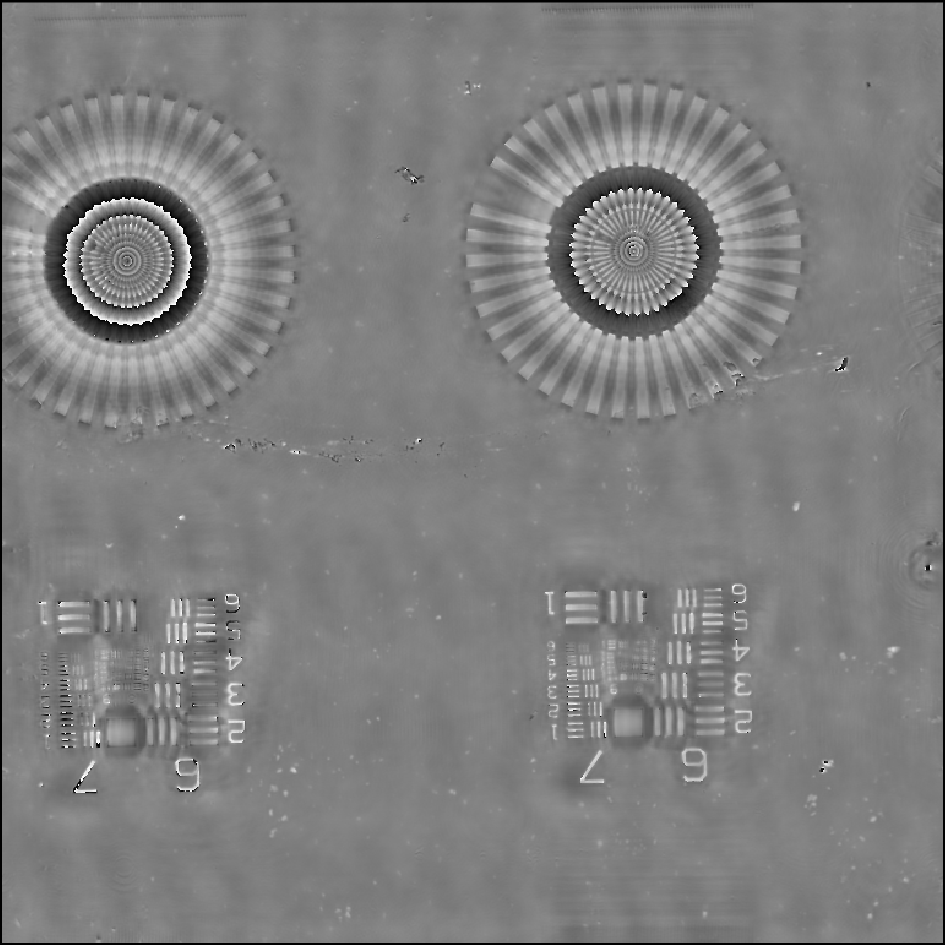
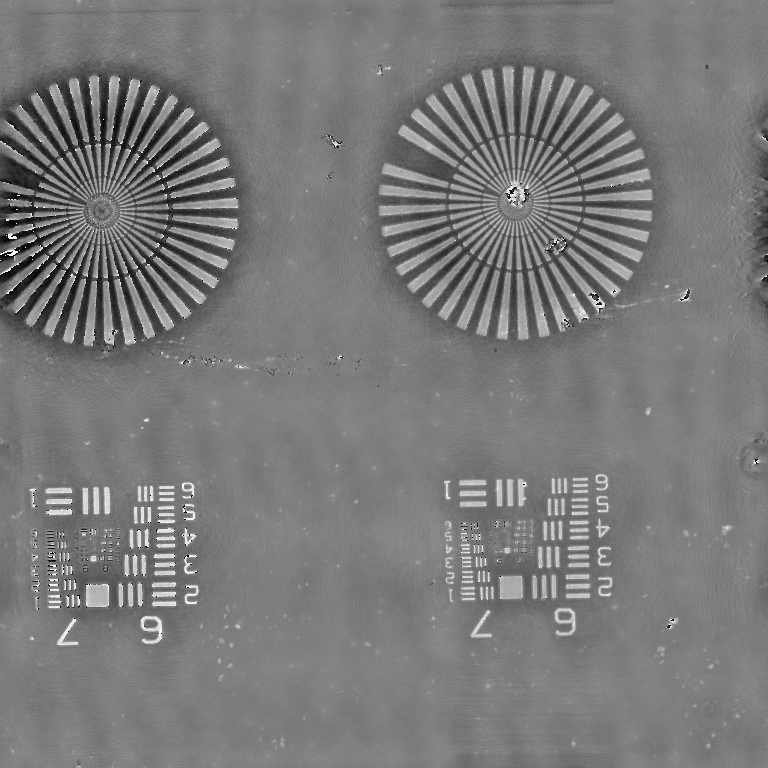
Update research figures and center captions

diff --git a/index.html b/index.html
@@ -7,7 +7,7 @@
   <meta name="theme-color" content="#ffffff">
   <title>Tong Wu</title>
   <link rel="icon" href="favicon.svg" type="image/svg+xml">
-  <link rel="stylesheet" href="styles.css">
+  <link rel="stylesheet" href="styles.css?v=balanced-figures-20261111">
   <script src="script.js" defer></script>
 </head>
 <body>
@@ -46,8 +46,10 @@
       </div>
       <article class="research-item" id="gaussian-paper" data-reveal>
         <figure class="research-image">
-          <img src="assets/gaussians.png" alt="Source image, clean Gaussian fit, and keyed rendering shown side by side." width="1640" height="662" loading="lazy" decoding="async">
-          <figcaption>Source · Gaussian fit · Keyed rendering<br><span>Source photograph: Christian Widell, CC0</span></figcaption>
+          <a class="figure-link image-frame" href="assets/gaussian-system-card.jpg" target="_blank" rel="noopener noreferrer" aria-label="View the full-size two-row system overview">
+            <img src="assets/gaussian-system-card.jpg" alt="Two-row system overview: inputs, clean fitting, carrier analysis, keyed assignment, embedding, and decoding." width="3000" height="2000" loading="lazy" decoding="async">
+          </a>
+          <figcaption>System overview · <a href="assets/gaussian-system-card.jpg" target="_blank" rel="noopener noreferrer">View full size ↗</a></figcaption>
         </figure>
         <div class="research-copy">
           <p class="venue"><span class="accepted">Accepted</span> ACM SIGGRAPH Asia 2026 · Technical Communications</p>
@@ -70,8 +72,12 @@
       </article>
       <article class="research-item" id="holography-project" data-reveal>
         <figure class="research-image">
-          <img src="assets/holography.png" alt="Grayscale phase reconstruction of Siemens star and USAF resolution test targets." width="945" height="945" loading="lazy" decoding="async">
-          <figcaption>Phase reconstruction of test targets</figcaption>
+          <a class="figure-link image-frame phase-frame" href="assets/holography.png?v=balanced-figures-20261111" target="_blank" rel="noopener noreferrer" aria-label="View the full phase reconstruction">
+            <svg viewBox="337 25 360 360" xmlns="http://www.w3.org/2000/svg" role="img" aria-label="Detail of a Siemens star test target in a baseline phase reconstruction" preserveAspectRatio="xMidYMid meet">
+              <image href="assets/holography.png?v=balanced-figures-20261111" width="768" height="768" />
+            </svg>
+          </a>
+          <figcaption>Phase reconstruction of a test target</figcaption>
         </figure>
         <div class="research-copy">
           <p class="venue">Ongoing research · QCI Lab, Warsaw University of Technology</p>

diff --git a/styles.css b/styles.css
@@ -45,9 +45,13 @@ h2 { font-size: 24px; font-weight: 620; line-height: 1.3; letter-spacing: -.03em
 .section-heading > span { color: var(--muted); font-size: 12px; }
 .research-item { display: grid; grid-template-columns: 260px minmax(0,1fr); align-items: start; column-gap: 34px; padding-block: 30px; }
 .research-item + .research-item { border-top: 1px solid var(--line); }
-.research-image { padding-top: 5px; }
+.research-image { padding-top: 5px; width: 100%; display: flex; flex-direction: column; align-items: center; justify-self: center; }
+.figure-link { display: block; cursor: zoom-in; }
 .research-image img { object-fit: contain; height: auto; max-height: 220px; width: 100%; }
-.research-image figcaption { font-size: 10.5px; color: var(--muted); margin-top: 11px; line-height: 1.5; text-align: center; }
+.research-image .image-frame { display: grid; place-items: center; width: 100%; aspect-ratio: 4 / 3; overflow: hidden; background: #fff; border: 1px solid var(--line); border-radius: 4px; }
+.research-image .image-frame img { width: 100%; height: 100%; max-height: none; object-fit: contain; object-position: center; }
+.research-image .phase-frame svg { display: block; width: 100%; height: 100%; }
+.research-image figcaption { width: 100%; box-sizing: border-box; padding: 0 4px; font-size: 10.5px; color: var(--muted); margin-top: 11px; line-height: 1.5; text-align: center; }
 .research-image figcaption span { font-size: 9px; }
 .bench-image img { border-radius: 3px; }
 .venue { font-size: 11.5px; color: var(--muted); line-height: 1.65; margin-bottom: 9px; }

diff --git a/assets/SOURCES.md b/assets/SOURCES.md
@@ -2,8 +2,8 @@
 
 Only individual figures are included; the original application materials are not distributed with this website.
 
-- `gaussians.png`: original figure from Tong Wu's research statement, page 1. Source photograph credited in the figure and on the page to Christian Widell, CC0. Original scientific labels are preserved.
-- `holography.png`: existing baseline phase reconstruction of Siemens star and USAF resolution test targets from the Warsaw/QCI research materials. The original PNG is copied without cropping or pixel edits. It illustrates the research subject and does not present a new-method comparison or quantitative result.
+- `gaussian-system-card.jpg`: corrected two-row representative system artwork, copied unchanged from the existing 3000 × 2000 source. The homepage displays the complete image inside a centered 4:3 frame and links to the full-resolution original. The wrong-key example uses BER = 0.75; the earlier 800 × 600 export with BER approximately 0.5 is not used. No cropping or pixel edits are applied.
+- `holography.png`: existing 768 × 768 baseline phase reconstruction of Siemens star and USAF test targets from the Warsaw/QCI research materials. Converted from its 8-bit TIFF to PNG with pixel identity verified. A centered SVG viewport shows a detail of one Siemens star; the image link opens the full original field. It illustrates the research subject and does not present a new-method comparison or quantitative result.
 - `bench.png`: original embedded optical-apparatus image from Tong Wu's research presentation, slide 7, describing the Chiba University project. Existing apparatus labels are preserved.
 
 The website portrait is the original-proportion outdoor photograph supplied by Tong Wu. No generative or face edits were applied.
